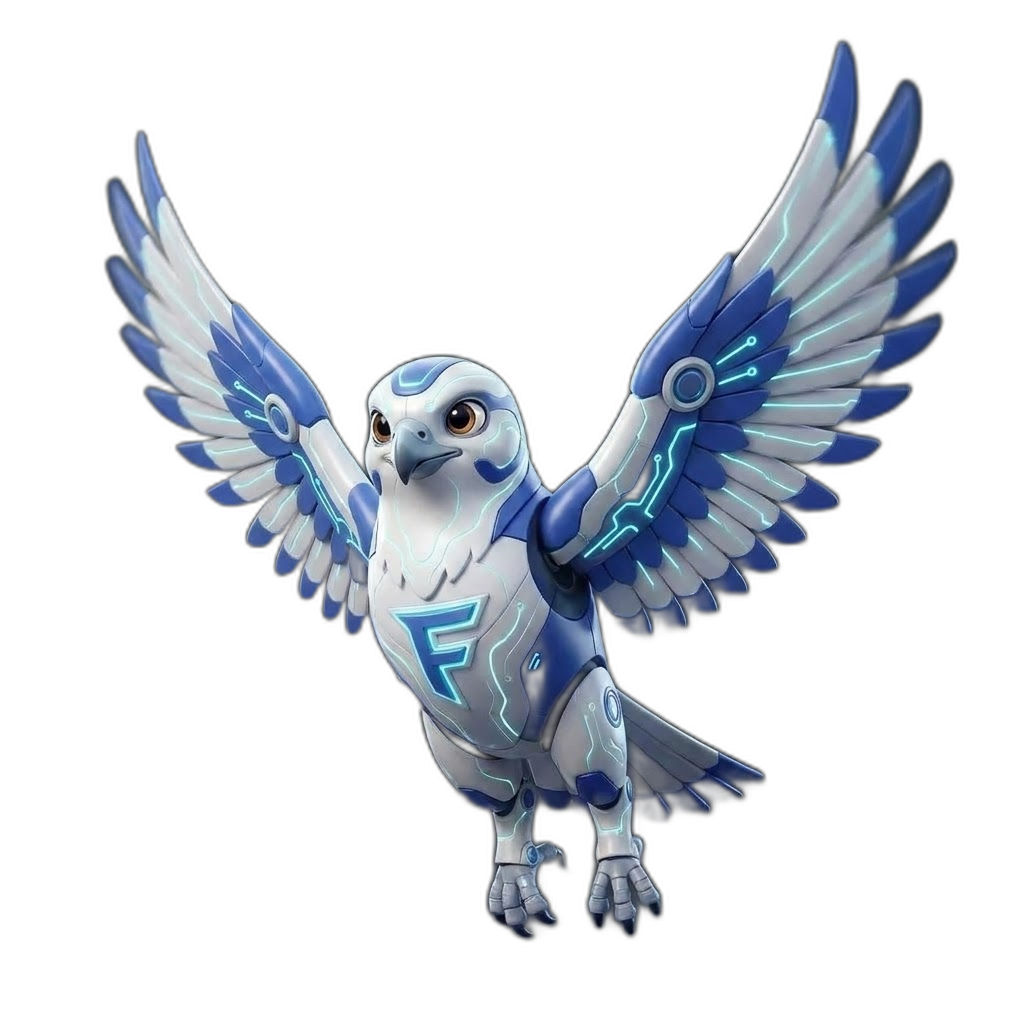
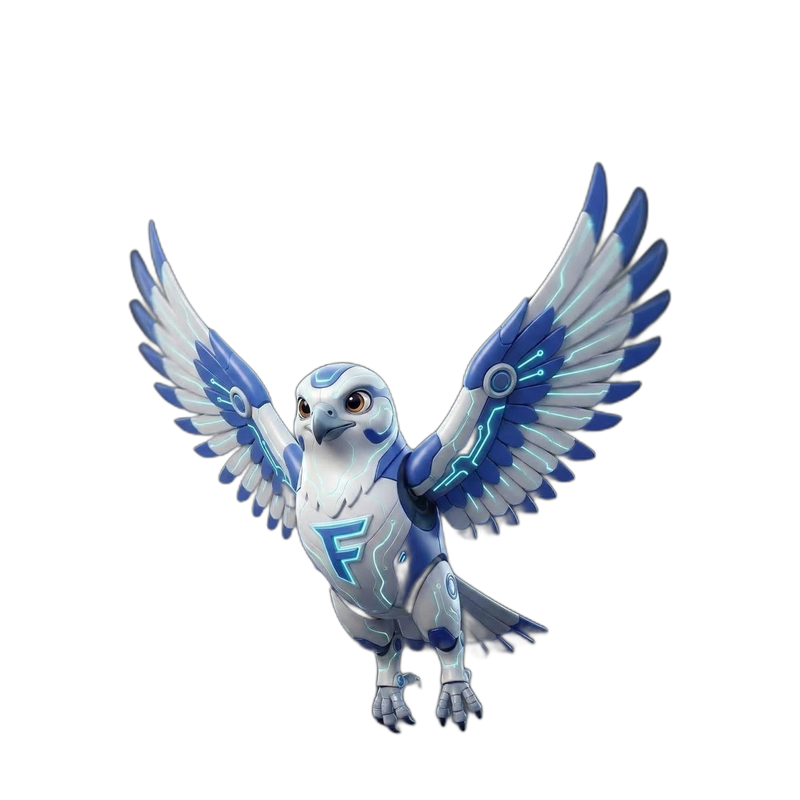
Smooth wing animation: normalize frame positions + crossfade between frames

Changed region(s): [[0.0938, 0.0312, 0.9375, 0.9375]]

diff --git a/src/components/FalconMascot.tsx b/src/components/FalconMascot.tsx
@@ -5,9 +5,9 @@ import frame3 from "@/assets/frames/frame3_wings_spread.png";
 import frame4 from "@/assets/frames/frame4_wings_down.png";
 import frame5 from "@/assets/frames/frame5_wings_low.png";
 
-// Wing cycle: up → mid → spread → down → low → down → spread → mid → up
-const HOVER_CYCLE = [frame1, frame2, frame3, frame4, frame5, frame4, frame3, frame2];
-const HOVER_FPS = 100; // ms per frame — ~10fps, smooth flap
+// Symmetric wing cycle: up → mid → spread → down → low → down → spread → mid → up
+const FRAMES = [frame1, frame2, frame3, frame4, frame5, frame4, frame3, frame2];
+const FRAME_MS = 110; // ms per frame
 
 interface Props {
   step: number;
@@ -16,16 +16,21 @@ interface Props {
 }
 
 export function FalconMascot({ celebrate = false, size = 380 }: Props) {
-  const [frameIdx, setFrameIdx] = useState(0);
+  const [current, setCurrent] = useState(0);
+  const [next, setNext] = useState(1);
+  const [fading, setFading] = useState(false);
 
   useEffect(() => {
     const interval = setInterval(() => {
-      setFrameIdx((i) => (i + 1) % HOVER_CYCLE.length);
-    }, HOVER_FPS);
+      setFading(true);
+      setTimeout(() => {
+        setCurrent((c) => (c + 1) % FRAMES.length);
+        setNext((n) => (n + 1) % FRAMES.length);
+        setFading(false);
+      }, FRAME_MS * 0.4); // crossfade at 40% of frame duration
+    }, FRAME_MS);
     return () => clearInterval(interval);
   }, []);
-
-  const src = HOVER_CYCLE[frameIdx];
 
   return (
     <div
@@ -37,40 +42,53 @@ export function FalconMascot({ celebrate = false, size = 380 }: Props) {
         aria-hidden
         className="absolute inset-0 pointer-events-none"
         style={{
-          background:
-            "radial-gradient(ellipse at 50% 55%, rgba(0,212,255,0.07) 0%, transparent 70%)",
+          background: "radial-gradient(ellipse at 50% 55%, rgba(0,212,255,0.07) 0%, transparent 70%)",
           transform: "scale(1.3)",
         }}
       />
 
-      {/* Slow vertical float wrapper */}
+      {/* Float wrapper */}
       <div
         className={celebrate ? "animate-celebrate" : "animate-falcon-float"}
-        style={{ background: "none" }}
+        style={{ background: "none", position: "relative" }}
       >
+        {/* Current frame */}
         <img
-          key={src}
-          src={src}
+          src={FRAMES[current]}
           alt="Falcon Agency mascot"
           draggable={false}
           className="w-full h-auto block"
           style={{
-            filter:
-              "drop-shadow(0 0 20px rgba(0,212,255,0.45)) drop-shadow(0 6px 24px rgba(0,100,200,0.25))",
-            background: "none",
+            position: "absolute",
+            top: 0, left: 0,
+            opacity: fading ? 0 : 1,
+            transition: `opacity ${FRAME_MS * 0.4}ms ease-in-out`,
+            filter: "drop-shadow(0 0 20px rgba(0,212,255,0.45)) drop-shadow(0 6px 24px rgba(0,100,200,0.25))",
+          }}
+        />
+        {/* Next frame (crossfade target) */}
+        <img
+          src={FRAMES[next]}
+          alt=""
+          aria-hidden
+          draggable={false}
+          className="w-full h-auto block"
+          style={{
+            opacity: fading ? 1 : 0,
+            transition: `opacity ${FRAME_MS * 0.4}ms ease-in-out`,
+            filter: "drop-shadow(0 0 20px rgba(0,212,255,0.45)) drop-shadow(0 6px 24px rgba(0,100,200,0.25))",
           }}
         />
 
-        {/* Ground glow — pulses with the float */}
+        {/* Ground glow */}
         <div
           aria-hidden
-          className="mx-auto -mt-4 animate-falcon-glow"
+          className="mx-auto animate-falcon-glow"
           style={{
             width: "50%",
             height: "16px",
             borderRadius: "50%",
-            background:
-              "radial-gradient(ellipse at center, rgba(0,212,255,0.45) 0%, rgba(0,212,255,0) 70%)",
+            background: "radial-gradient(ellipse at center, rgba(0,212,255,0.45) 0%, rgba(0,212,255,0) 70%)",
           }}
         />
       </div>
